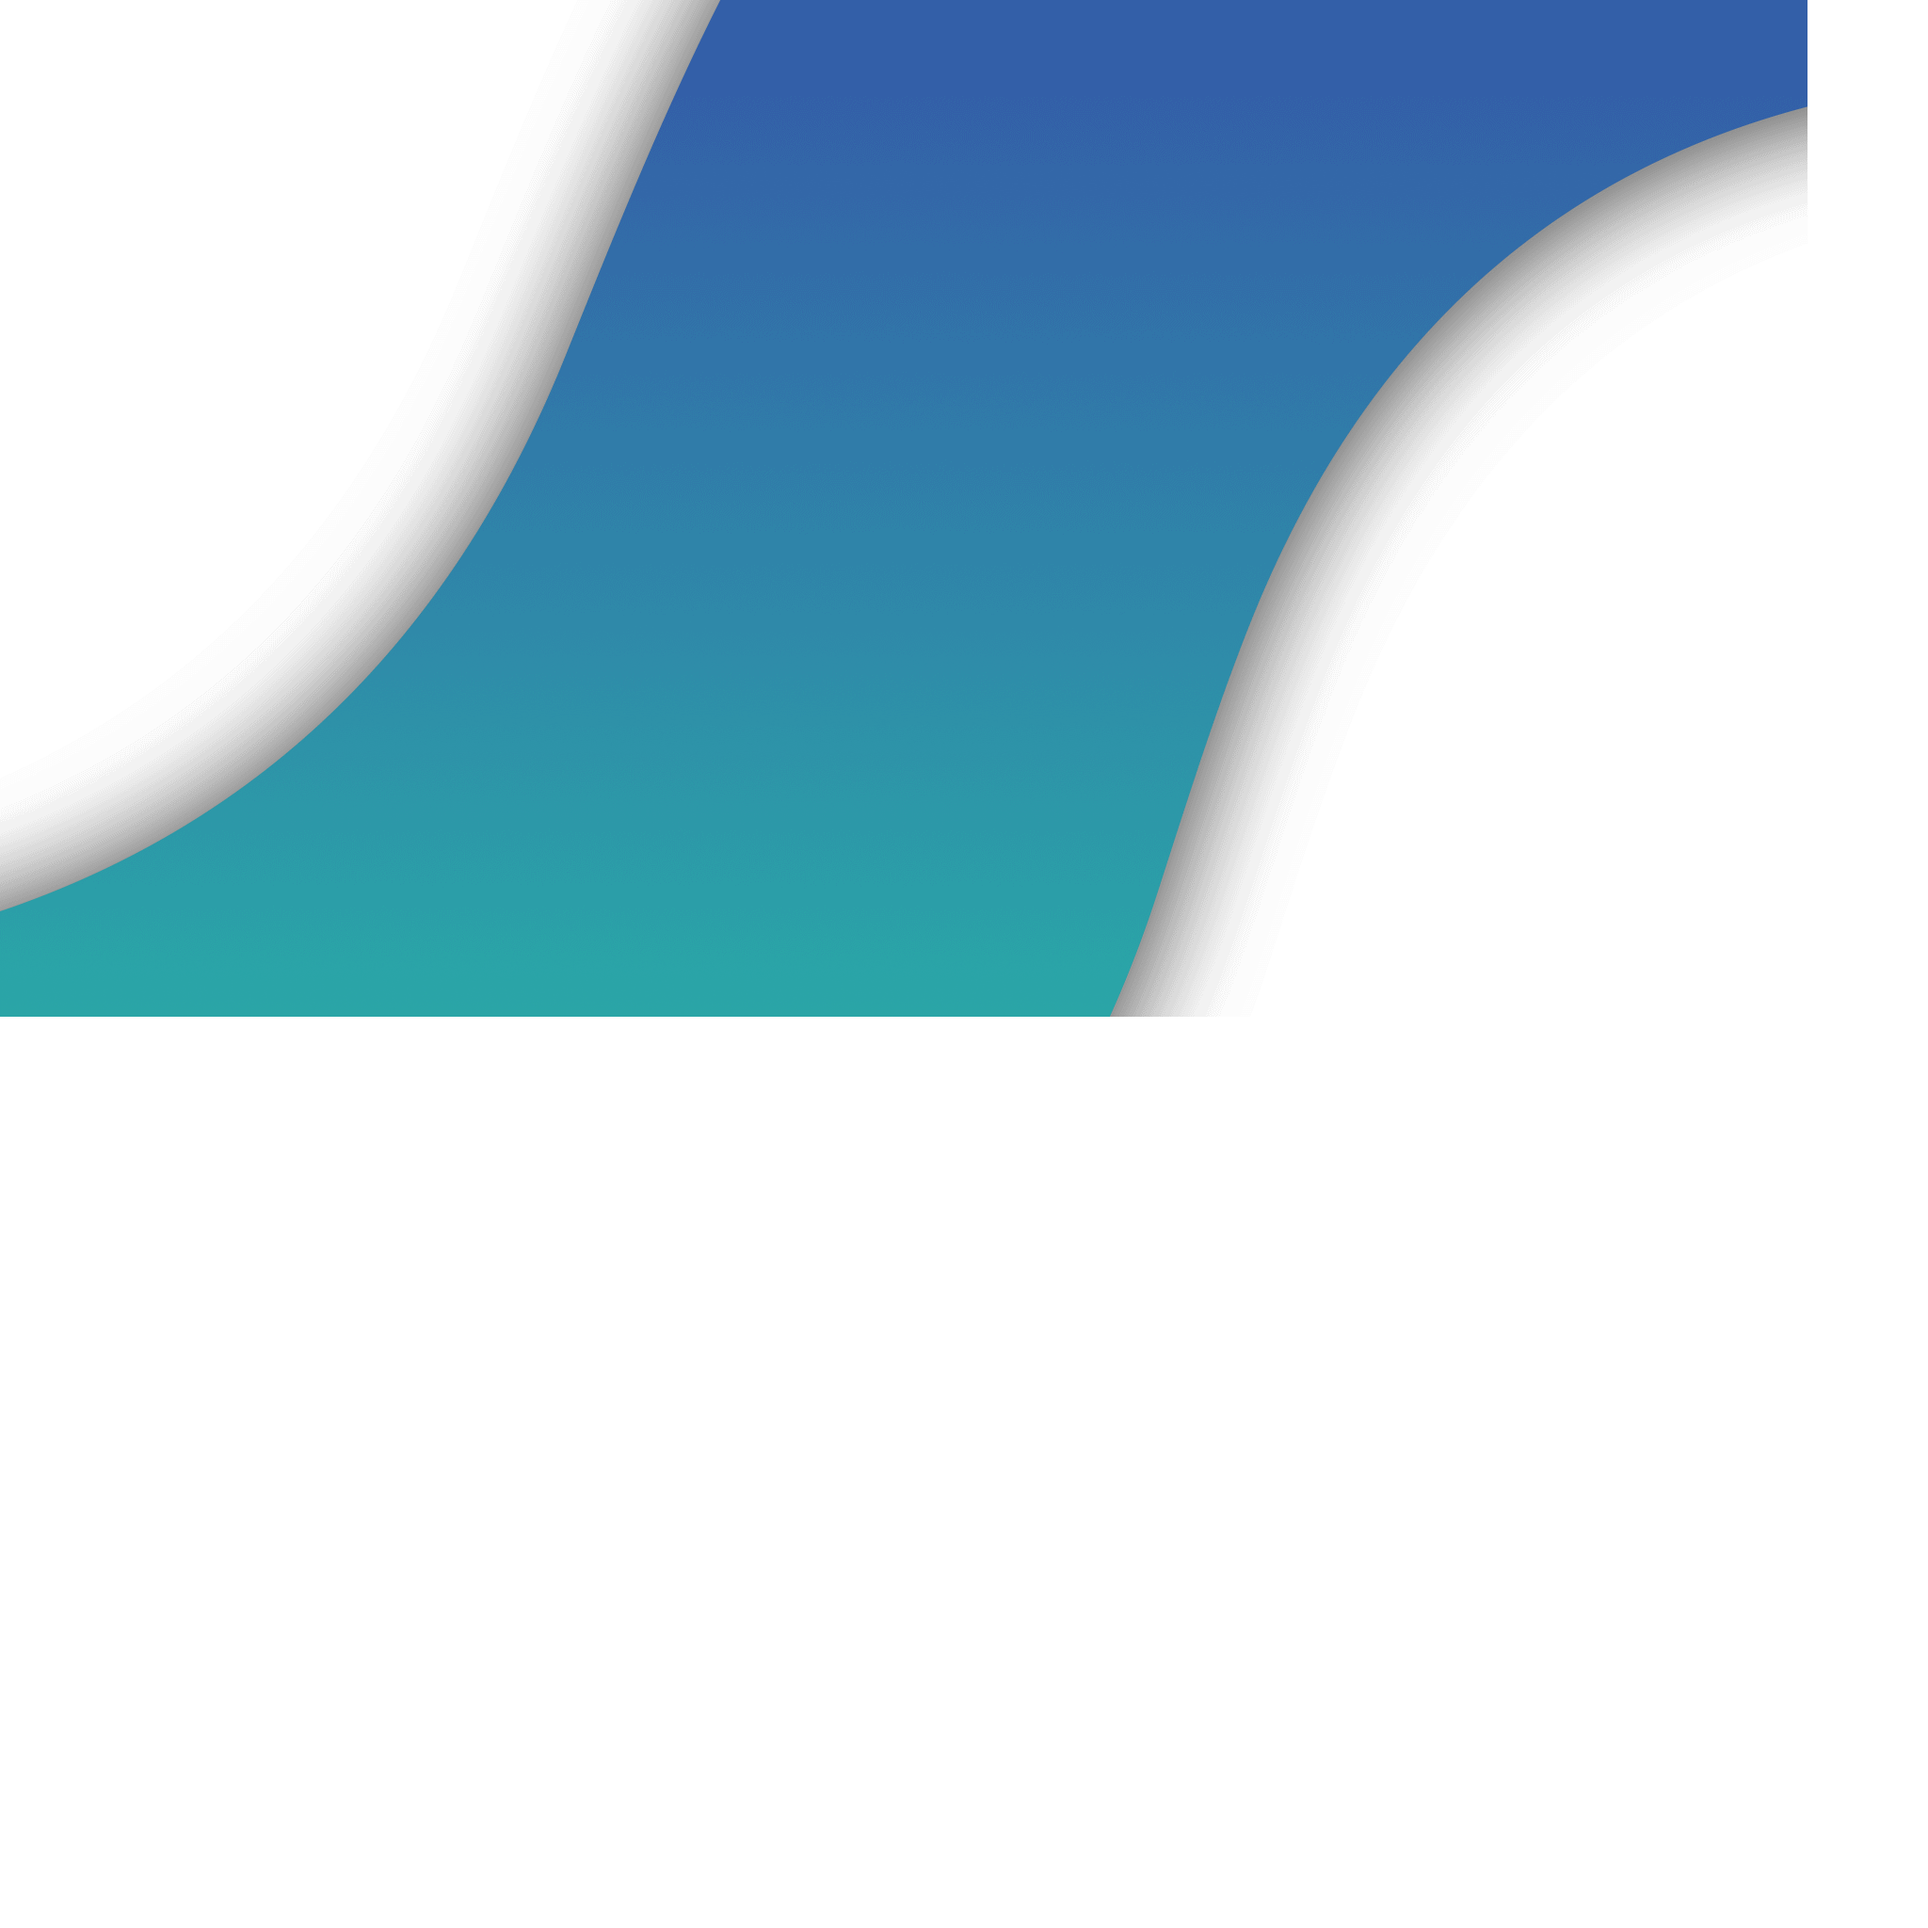
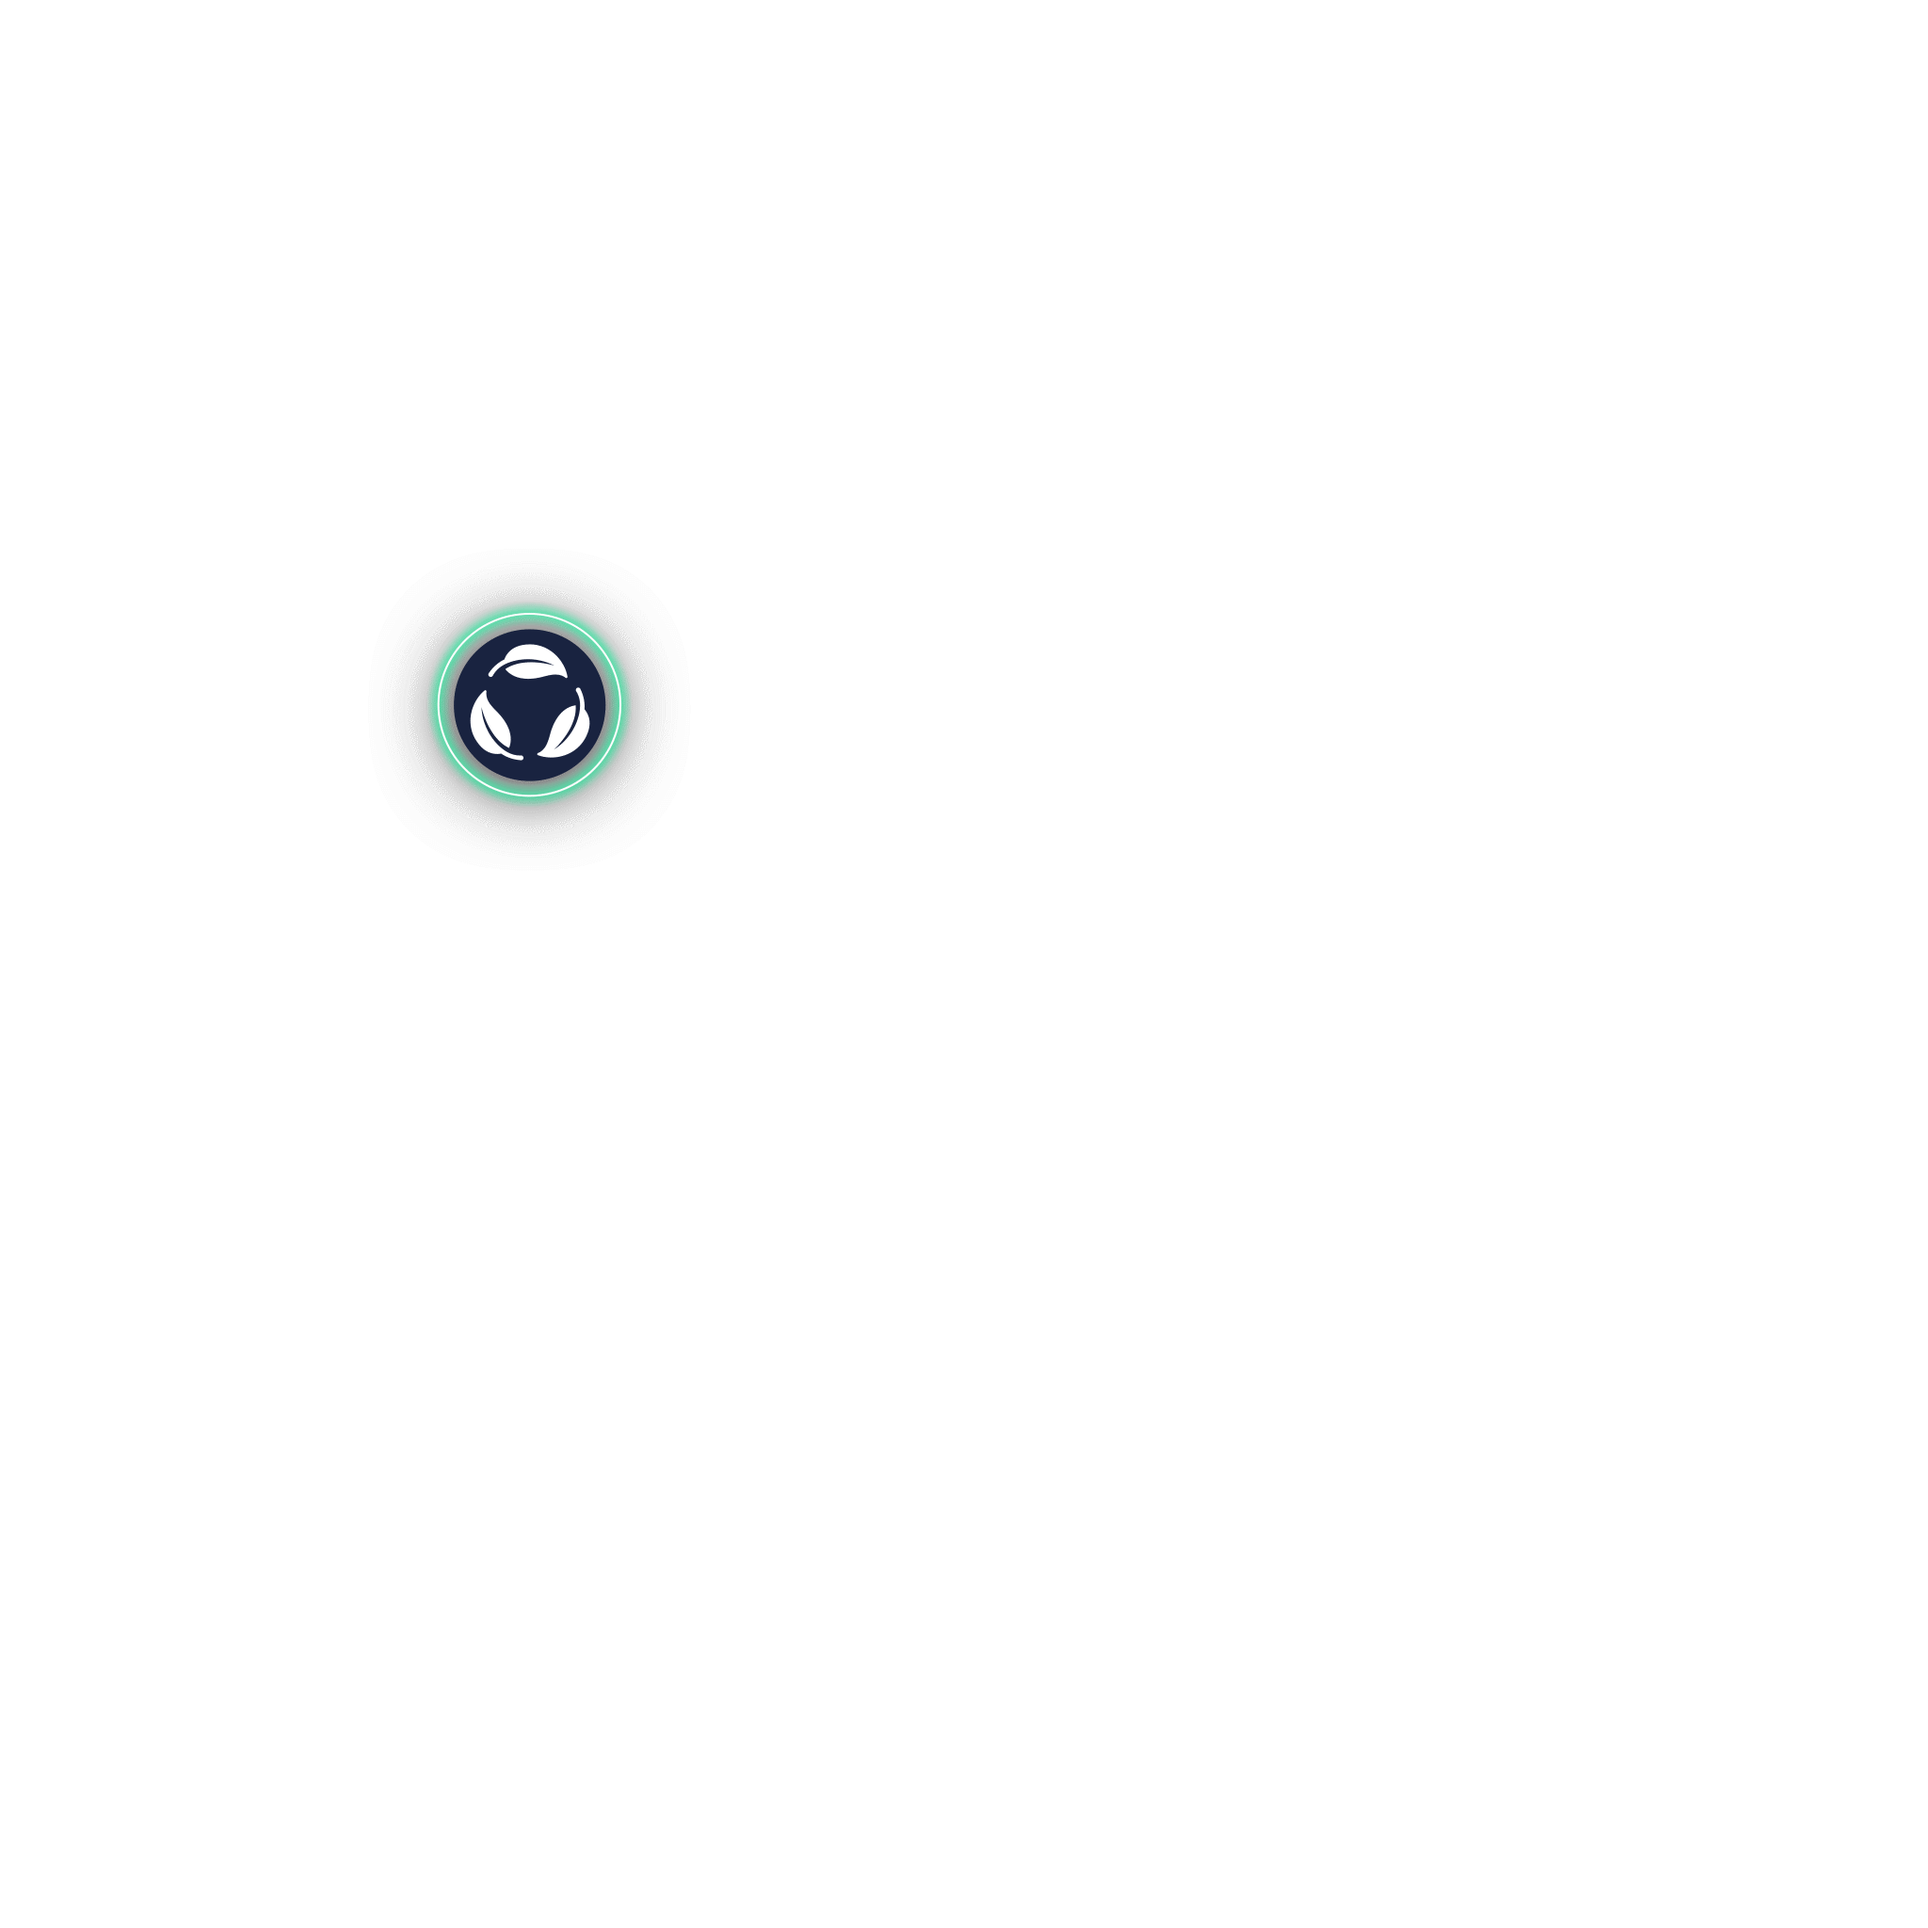
Reativa a camada bg (instance_7 / s.png) entre o video e os botoes
O usuario pediu para o bg voltar a aparecer: video (fundo) -> bg
gradiente (meio, com bordas transparentes) -> logo/icones (frente).
Removida a linha que forcava instance_7.visible = false.

Confirmado visualmente local e no site publicado, com checksum de
todos os assets validado contra o deploy (evita a dessincronia de
atlas encontrada no deploy anterior).

Changed region(s): [[0.0, 0.0, 0.9375, 0.5312]]

diff --git a/supplylog.html b/supplylog.html
@@ -1,0 +1,77 @@
+<!DOCTYPE html>
+<!--
+	NOTES:
+	1. All tokens are represented by '$' sign in the template.
+	2. You can write your code only wherever mentioned.
+	3. All occurrences of existing tokens will be replaced by their appropriate values.
+	4. Blank lines will be removed automatically.
+	5. Remove unnecessary comments before creating your template.
+-->
+<html>
+<head>
+<meta charset="UTF-8">
+<meta name="authoring-tool" content="Adobe_Animate_CC">
+<title>supplylog</title>
+<!-- write your code here -->
+<style>
+  #animation_container {
+	position:absolute;
+	margin:auto;
+	left:0;right:0;
+	top:0;bottom:0;
+  }
+</style>
+<script src="https://code.createjs.com/1.0.0/createjs.min.js"></script>
+<script src="supplylog.js?1790006801051"></script>
+<script>
+var canvas, stage, exportRoot, anim_container, dom_overlay_container, fnStartAnimation;
+function init() {
+	canvas = document.getElementById("canvas");
+	anim_container = document.getElementById("animation_container");
+	dom_overlay_container = document.getElementById("dom_overlay_container");
+	var comp=AdobeAn.getComposition("87D6CEF2740D46FD9B6D335E6314768E");
+	var lib=comp.getLibrary();
+	var loader = new createjs.LoadQueue(false);
+	loader.addEventListener("fileload", function(evt){handleFileLoad(evt,comp)});
+	loader.addEventListener("complete", function(evt){handleComplete(evt,comp)});
+	var lib=comp.getLibrary();
+	loader.loadManifest(lib.properties.manifest);
+}
+function handleFileLoad(evt, comp) {
+	var images=comp.getImages();	
+	if (evt && (evt.item.type == "image")) { images[evt.item.id] = evt.result; }	
+}
+function handleComplete(evt,comp) {
+	//This function is always called, irrespective of the content. You can use the variable "stage" after it is created in token create_stage.
+	var lib=comp.getLibrary();
+	var ss=comp.getSpriteSheet();
+	var queue = evt.target;
+	var ssMetadata = lib.ssMetadata;
+	for(i=0; i<ssMetadata.length; i++) {
+		ss[ssMetadata[i].name] = new createjs.SpriteSheet( {"images": [queue.getResult(ssMetadata[i].name)], "frames": ssMetadata[i].frames} )
+	}
+	exportRoot = new lib.supplylog();
+	stage = new lib.Stage(canvas);
+	stage.enableMouseOver();	
+	//Registers the "tick" event listener.
+	fnStartAnimation = function() {
+		stage.addChild(exportRoot);
+		createjs.Ticker.framerate = lib.properties.fps;
+		createjs.Ticker.addEventListener("tick", stage);
+	}	    
+	//Code to support hidpi screens and responsive scaling.
+	AdobeAn.makeResponsive(true,'both',true,1,[canvas,anim_container,dom_overlay_container]);	
+	AdobeAn.compositionLoaded(lib.properties.id);
+	fnStartAnimation();
+}
+</script>
+<!-- write your code here -->
+</head>
+<body onload="init();" style="margin:0px;">
+	<div id="animation_container" style="background-color:rgba(204, 204, 204, 1.00); width:1920px; height:1080px">
+		<canvas id="canvas" width="1920" height="1080" style="position: absolute; display: block; background-color:rgba(204, 204, 204, 1.00);"></canvas>
+		<div id="dom_overlay_container" style="pointer-events:none; overflow:hidden; width:1920px; height:1080px; position: absolute; left: 0px; top: 0px; display: block;">
+		</div>
+	</div>
+</body>
+</html>

diff --git a/supplylog.js b/supplylog.js
@@ -3369,11 +3369,6 @@ if (reversed == null) { reversed = false; }
 		// referencia principal
 		var root = this;
 
-		// esconde o fundo estatico (bg / instance_7)
-		if (root.instance_7) {
-		root.instance_7.visible = false;
-		}
-
 		// background video
 		var container =
 		document.getElementById("animation_container");
